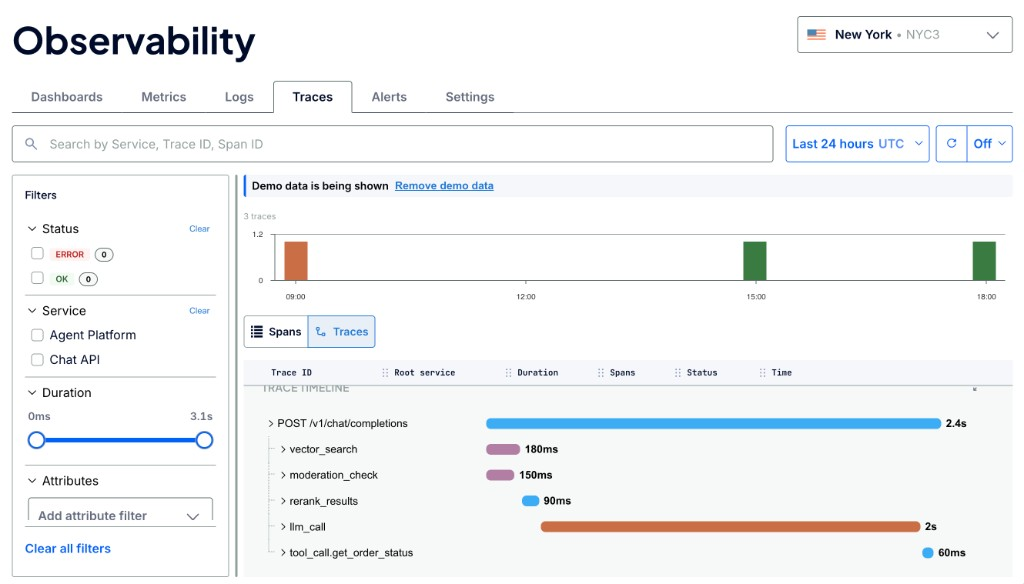
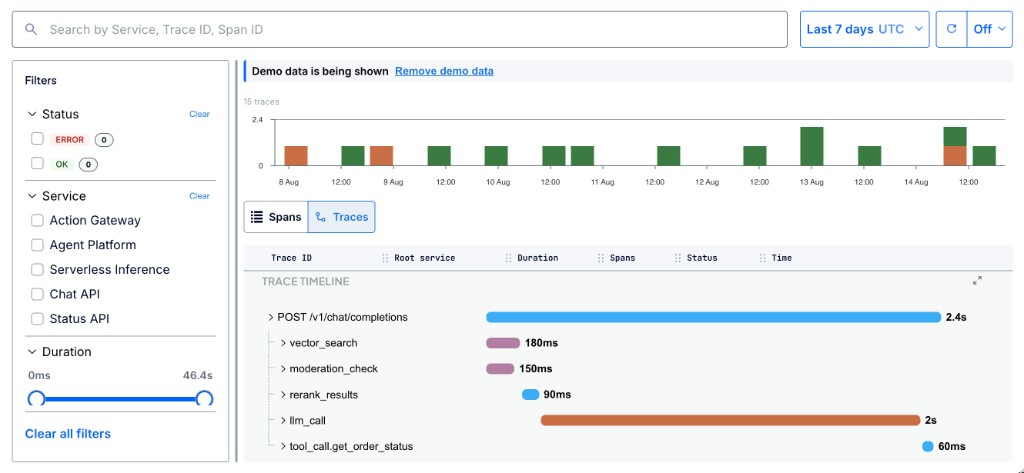
Use content-only Logs/Traces screenshots for blurred sneak peeks.
Keep Observability title and tabs sharp; blur only the tab content area.

diff --git a/Customer Communication Prototype.html b/Customer Communication Prototype.html
@@ -428,9 +428,9 @@
 
     .sneak-peek {
       position: relative;
-      margin: 0 -8px;
-      min-height: 520px;
-      height: min(560px, calc(100vh - 260px));
+      margin: 0;
+      min-height: 460px;
+      height: min(520px, calc(100vh - 250px));
       border-radius: 5px;
       overflow: hidden;
       border: 1px solid var(--grey-light);
@@ -443,30 +443,32 @@
 
     .sneak-peek-bg {
       position: absolute;
-      inset: 0;
-      background-size: cover;
+      inset: -8px;
+      background-color: #fff;
+      background-size: 100% auto;
       background-repeat: no-repeat;
       background-position: left top;
-      filter: blur(2.5px);
-      opacity: 0.92;
+      filter: blur(4px);
+      opacity: 1;
       pointer-events: none;
       user-select: none;
+      transform: scale(1.01);
+      transform-origin: top left;
     }
 
     .sneak-peek.dismissed .sneak-peek-bg {
-      filter: blur(1.2px);
-      opacity: 0.97;
+      filter: blur(2px);
     }
 
     .sneak-peek-dim {
       position: absolute;
       inset: 0;
-      background: rgba(243, 245, 249, 0.45);
+      background: rgba(255, 255, 255, 0.28);
       pointer-events: none;
     }
 
     .sneak-peek.dismissed .sneak-peek-dim {
-      background: rgba(243, 245, 249, 0.2);
+      background: rgba(255, 255, 255, 0.12);
     }
 
     .sneak-peek-card {
@@ -536,14 +538,13 @@
     }
 
     .enabled-demo {
-      margin: 0 -8px;
+      margin: 0;
       min-height: 420px;
-      height: calc(100vh - 280px);
-      max-height: 560px;
+      height: min(520px, calc(100vh - 250px));
       border-radius: 5px;
       overflow: hidden;
       border: 1px solid var(--grey-light);
-      background: var(--white) center top / cover no-repeat;
+      background: var(--white) left top / 100% auto no-repeat;
       animation: fadeUp 0.4s var(--ease) both;
     }
 

diff --git a/index.html b/index.html
@@ -428,9 +428,9 @@
 
     .sneak-peek {
       position: relative;
-      margin: 0 -8px;
-      min-height: 520px;
-      height: min(560px, calc(100vh - 260px));
+      margin: 0;
+      min-height: 460px;
+      height: min(520px, calc(100vh - 250px));
       border-radius: 5px;
       overflow: hidden;
       border: 1px solid var(--grey-light);
@@ -443,30 +443,32 @@
 
     .sneak-peek-bg {
       position: absolute;
-      inset: 0;
-      background-size: cover;
+      inset: -8px;
+      background-color: #fff;
+      background-size: 100% auto;
       background-repeat: no-repeat;
       background-position: left top;
-      filter: blur(2.5px);
-      opacity: 0.92;
+      filter: blur(4px);
+      opacity: 1;
       pointer-events: none;
       user-select: none;
+      transform: scale(1.01);
+      transform-origin: top left;
     }
 
     .sneak-peek.dismissed .sneak-peek-bg {
-      filter: blur(1.2px);
-      opacity: 0.97;
+      filter: blur(2px);
     }
 
     .sneak-peek-dim {
       position: absolute;
       inset: 0;
-      background: rgba(243, 245, 249, 0.45);
+      background: rgba(255, 255, 255, 0.28);
       pointer-events: none;
     }
 
     .sneak-peek.dismissed .sneak-peek-dim {
-      background: rgba(243, 245, 249, 0.2);
+      background: rgba(255, 255, 255, 0.12);
     }
 
     .sneak-peek-card {
@@ -536,14 +538,13 @@
     }
 
     .enabled-demo {
-      margin: 0 -8px;
+      margin: 0;
       min-height: 420px;
-      height: calc(100vh - 280px);
-      max-height: 560px;
+      height: min(520px, calc(100vh - 250px));
       border-radius: 5px;
       overflow: hidden;
       border: 1px solid var(--grey-light);
-      background: var(--white) center top / cover no-repeat;
+      background: var(--white) left top / 100% auto no-repeat;
       animation: fadeUp 0.4s var(--ease) both;
     }
 
